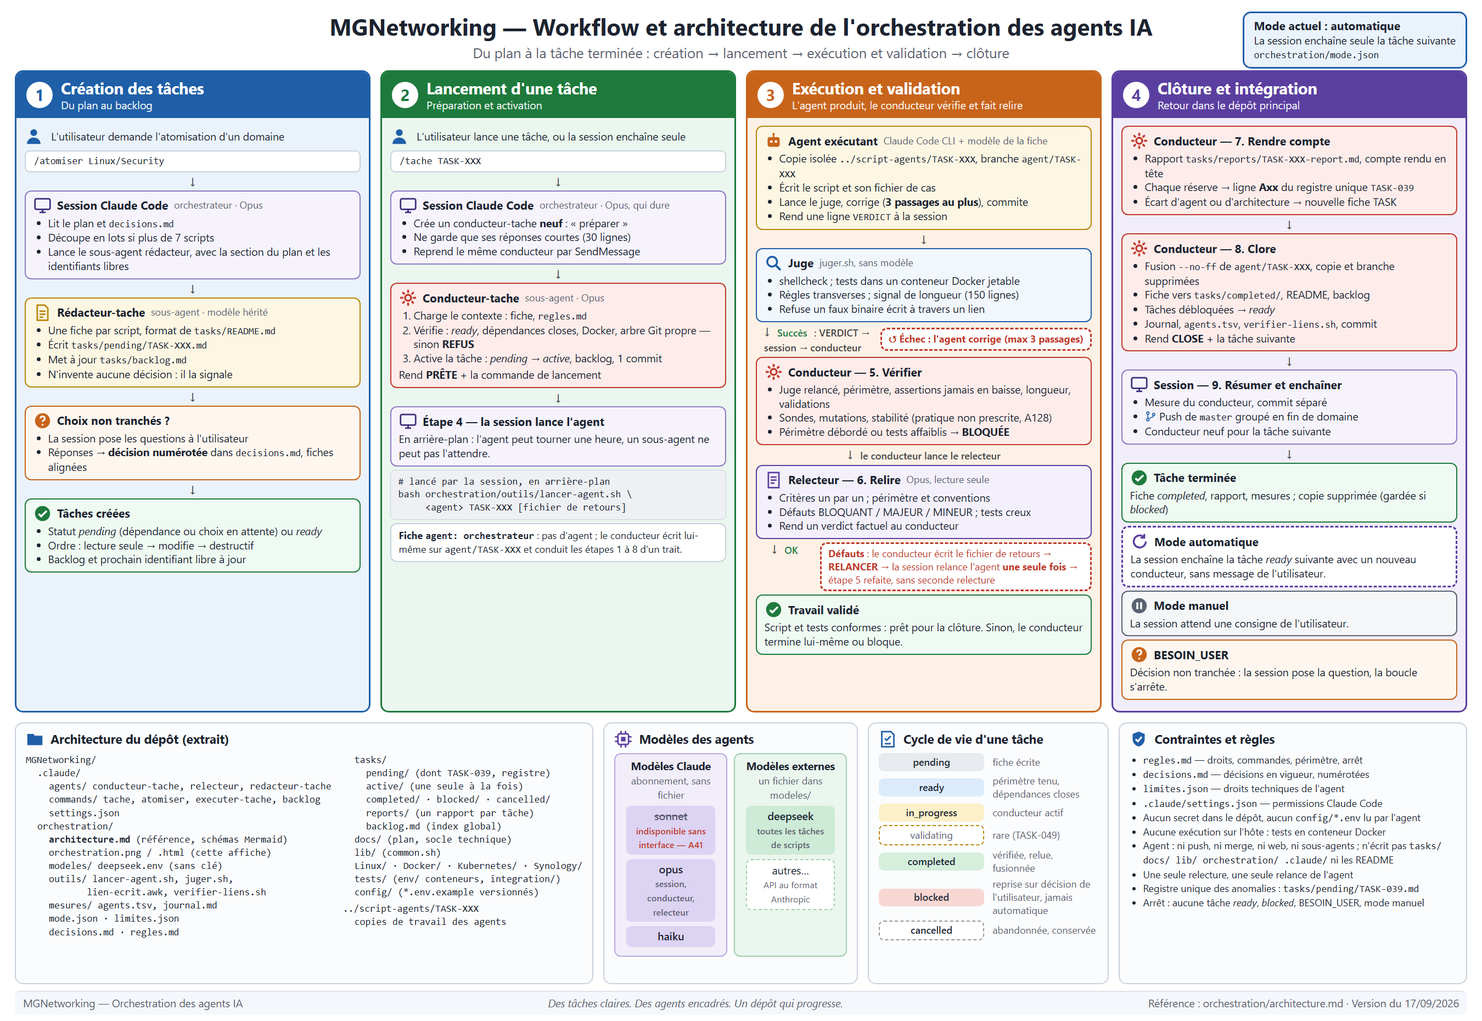
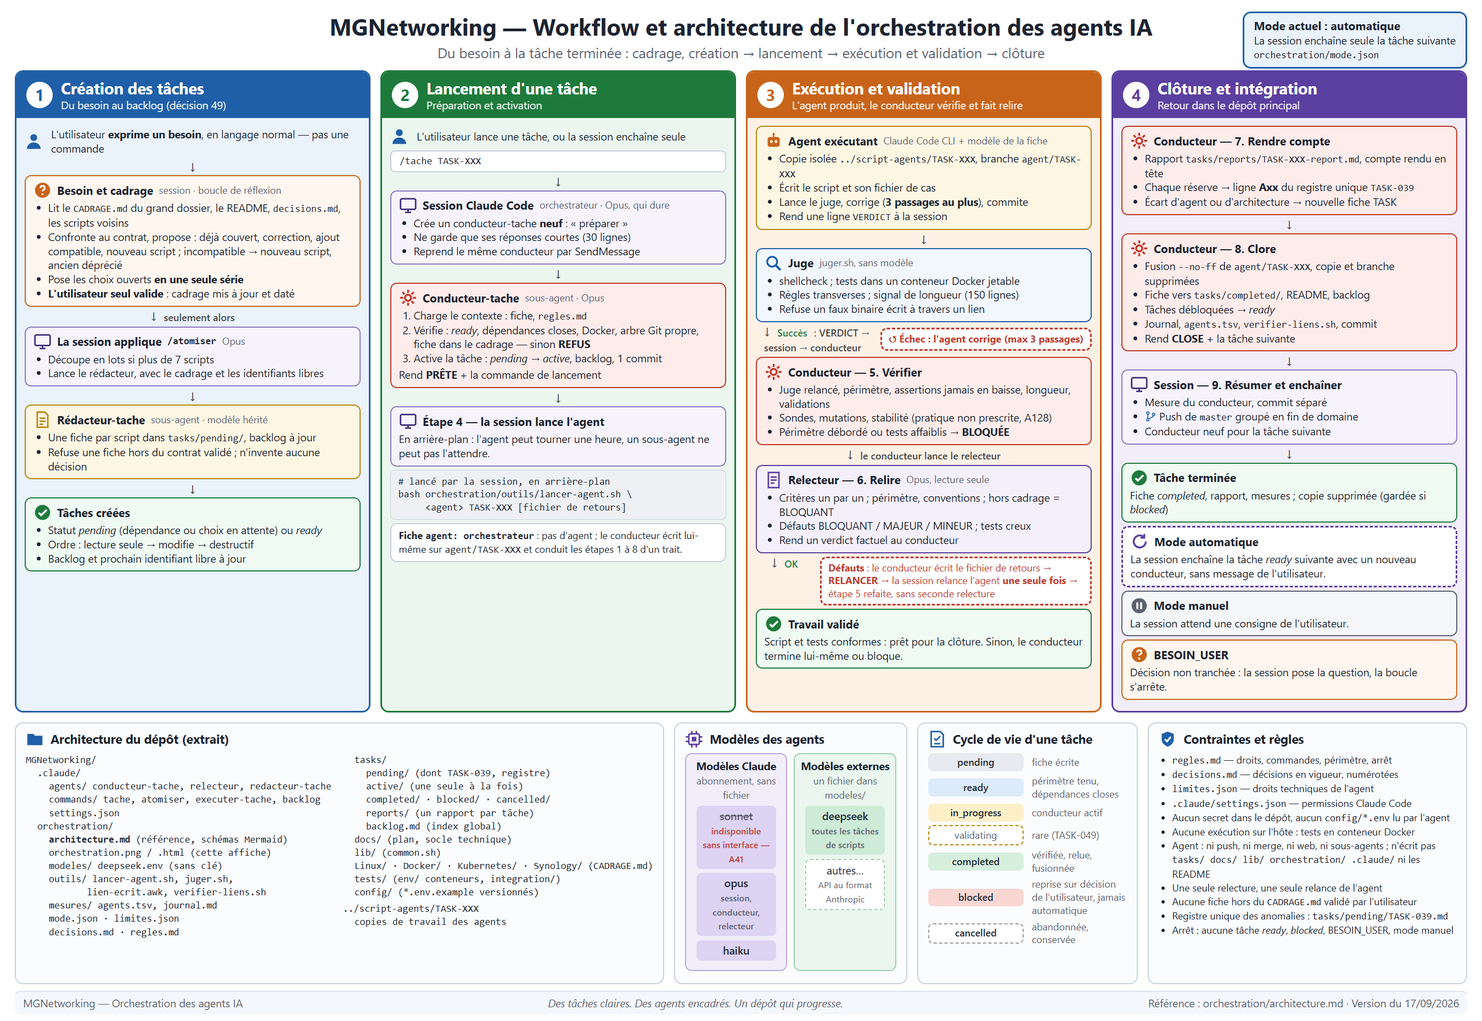
docs(orchestration): décision 49, cadrage par grand dossier et boucle de réflexion
Décision 49 consignée ; architecture.md, affiche, regles.md, /tache, /atomiser,
relecteur et rédacteur renvoient au CADRAGE.md du dossier. docs/reprise-cadrage.md
supprimé.

Tâche : TASK-073

diff --git a/orchestration/orchestration.html b/orchestration/orchestration.html
@@ -2,7 +2,7 @@
 <!-- Source de l'affiche orchestration.png. Export :
      "/c/Program Files (x86)/Microsoft/Edge/Application/msedge.exe" --headless=new --hide-scrollbars \
        --force-device-scale-factor=1.5 --window-size=1800,1240 \
-       --screenshot="$PWD/orchestration/orchestration.png" "file:///$PWD/orchestration/orchestration.html"
+       --screenshot="$(pwd -W)/orchestration/orchestration.png" "file:///$(pwd -W)/orchestration/orchestration.html"
      En cas d'écart, orchestration/architecture.md fait foi. -->
 <html lang="fr">
 <head>
@@ -114,42 +114,40 @@
 
 <div class="entete">
   <h1>MGNetworking — Workflow et architecture de l'orchestration des agents IA</h1>
-  <div class="sous-titre">Du plan à la tâche terminée : création → lancement → exécution et validation → clôture</div>
+  <div class="sous-titre">Du besoin à la tâche terminée : cadrage, création → lancement → exécution et validation → clôture</div>
   <div class="mode"><b>Mode actuel : automatique</b><br>La session enchaîne seule la tâche suivante<br><span class="mono">orchestration/mode.json</span></div>
 </div>
 
 <div class="colonnes">
   <!-- 1 -->
   <section class="col c1">
-    <div class="titre"><span class="num">1</span><div><h2>Création des tâches</h2><small>Du plan au backlog</small></div></div>
+    <div class="titre"><span class="num">1</span><div><h2>Création des tâches</h2><small>Du besoin au backlog (décision 49)</small></div></div>
     <div class="corps">
-      <div class="boite b-user"><svg class="ico"><use href="#i-user"/></svg><span>L'utilisateur demande l'atomisation d'un domaine</span></div>
-      <div class="cmd mono">/atomiser Linux/Security</div>
+      <div class="boite b-user"><svg class="ico"><use href="#i-user"/></svg><span>L'utilisateur <b>exprime un besoin</b>, en langage normal — pas une commande</span></div>
       <div class="fleche">↓</div>
-      <div class="boite b-session">
-        <h3><svg class="ico"><use href="#i-ecran"/></svg>Session Claude Code <span class="role">orchestrateur · Opus</span></h3>
+      <div class="boite besoin">
+        <h3><svg class="ico"><use href="#i-question"/></svg>Besoin et cadrage <span class="role">session · boucle de réflexion</span></h3>
         <ul>
-          <li>Lit le plan et <span class="mono">decisions.md</span></li>
+          <li>Lit le <span class="mono">CADRAGE.md</span> du grand dossier, le README, <span class="mono">decisions.md</span>, les scripts voisins</li>
+          <li>Confronte au contrat, propose : déjà couvert, correction, ajout compatible, nouveau script ; incompatible → nouveau script, ancien déprécié</li>
+          <li>Pose les choix ouverts <b>en une seule série</b></li>
+          <li><b>L'utilisateur seul valide</b> : cadrage mis à jour et daté</li>
+        </ul>
+      </div>
+      <div class="fleche">↓ <small>seulement alors</small></div>
+      <div class="boite b-session">
+        <h3><svg class="ico"><use href="#i-ecran"/></svg>La session applique <span class="mono">/atomiser</span> <span class="role">Opus</span></h3>
+        <ul>
           <li>Découpe en lots si plus de 7 scripts</li>
-          <li>Lance le sous-agent rédacteur, avec la section du plan et les identifiants libres</li>
+          <li>Lance le rédacteur, avec le cadrage et les identifiants libres</li>
         </ul>
       </div>
       <div class="fleche">↓</div>
       <div class="boite b-agent">
         <h3><svg class="ico"><use href="#i-doc"/></svg>Rédacteur-tache <span class="role">sous-agent · modèle hérité</span></h3>
         <ul>
-          <li>Une fiche par script, format de <span class="mono">tasks/README.md</span></li>
-          <li>Écrit <span class="mono">tasks/pending/TASK-XXX.md</span></li>
-          <li>Met à jour <span class="mono">tasks/backlog.md</span></li>
-          <li>N'invente aucune décision : il la signale</li>
-        </ul>
-      </div>
-      <div class="fleche">↓</div>
-      <div class="boite besoin">
-        <h3><svg class="ico"><use href="#i-question"/></svg>Choix non tranchés ?</h3>
-        <ul>
-          <li>La session pose les questions à l'utilisateur</li>
-          <li>Réponses → <b>décision numérotée</b> dans <span class="mono">decisions.md</span>, fiches alignées</li>
+          <li>Une fiche par script dans <span class="mono">tasks/pending/</span>, backlog à jour</li>
+          <li>Refuse une fiche hors du contrat validé ; n'invente aucune décision</li>
         </ul>
       </div>
       <div class="fleche">↓</div>
@@ -184,7 +182,7 @@
         <h3><svg class="ico"><use href="#i-roue"/></svg>Conducteur-tache <span class="role">sous-agent · Opus</span></h3>
         <ol>
           <li>Charge le contexte : fiche, <span class="mono">regles.md</span></li>
-          <li>Vérifie : <i>ready</i>, dépendances closes, Docker, arbre Git propre — sinon <b>REFUS</b></li>
+          <li>Vérifie : <i>ready</i>, dépendances closes, Docker, arbre Git propre, fiche dans le cadrage — sinon <b>REFUS</b></li>
           <li>Active la tâche : <i>pending → active</i>, backlog, 1 commit</li>
         </ol>
         <div style="margin-top:3px">Rend <b>PRÊTE</b> + la commande de lancement</div>
@@ -241,7 +239,7 @@ bash orchestration/outils/lancer-agent.sh \
       <div class="boite b-relec">
         <h3><svg class="ico"><use href="#i-relec"/></svg>Relecteur — 6. Relire <span class="role">Opus, lecture seule</span></h3>
         <ul>
-          <li>Critères un par un ; périmètre et conventions</li>
+          <li>Critères un par un ; périmètre, conventions ; hors cadrage = BLOQUANT</li>
           <li>Défauts BLOQUANT / MAJEUR / MINEUR ; tests creux</li>
           <li>Rend un verdict factuel au conducteur</li>
         </ul>
@@ -330,7 +328,7 @@ bash orchestration/outils/lancer-agent.sh \
         <div class="i2">backlog.md (index global)</div>
         <div class="i1">docs/ (plan, socle technique)</div>
         <div class="i1">lib/ (common.sh)</div>
-        <div class="i1">Linux/ · Docker/ · Kubernetes/ · Synology/</div>
+        <div class="i1">Linux/ · Docker/ · Kubernetes/ · Synology/ (CADRAGE.md)</div>
         <div class="i1">tests/ (env/ conteneurs, integration/)</div>
         <div class="i1">config/ (*.env.example versionnés)</div>
         <div style="margin-top:4px">../script-agents/TASK-XXX</div>
@@ -380,6 +378,7 @@ bash orchestration/outils/lancer-agent.sh \
       <li>Aucune exécution sur l'hôte : tests en conteneur Docker</li>
       <li>Agent : ni push, ni merge, ni web, ni sous-agents ; n'écrit pas <span class="mono">tasks/ docs/ lib/ orchestration/ .claude/</span> ni les README</li>
       <li>Une seule relecture, une seule relance de l'agent</li>
+      <li>Aucune fiche hors du <span class="mono">CADRAGE.md</span> validé par l'utilisateur</li>
       <li>Registre unique des anomalies : <span class="mono">tasks/pending/TASK-039.md</span></li>
       <li>Arrêt : aucune tâche <i>ready</i>, <i>blocked</i>, BESOIN_USER, mode manuel</li>
     </ul>

diff --git a/orchestration/architecture.md b/orchestration/architecture.md
@@ -29,8 +29,8 @@ fichier est à corriger.
 
 | Acteur | Nature | Modèle | Consigne | Peut | Ne peut pas |
 |---|---|---|---|---|---|
-| **user** | humain | — | — | décider, reconnecter Claude Code, basculer `mode.json` | — |
-| **Session orchestratrice** | session Claude Code interactive, qui dure | Opus | `/tache` étapes 0 et 9 ; `/atomiser` (commande, qui délègue au rédacteur) | lancer conducteurs, rédacteurs et `lancer-agent.sh` en arrière-plan ; écrire décisions, `mode.json`, ce fichier ; commiter la mesure du conducteur ; pousser en fin de domaine | écrire un script ; vider son contexte (décision 46 amendée) |
+| **user** | humain | — | — | exprimer un besoin (jamais une commande), valider seul le cadrage, décider, reconnecter Claude Code, basculer `mode.json` | — |
+| **Session orchestratrice** | session Claude Code interactive, qui dure | Opus | boucle de réflexion ([décision 49](decisions.md)) ; `/tache` étapes 0 et 9 ; `/atomiser`, appliqué après validation du cadrage, qui délègue au rédacteur | proposer un cadrage ; lancer conducteurs, rédacteurs et `lancer-agent.sh` en arrière-plan ; écrire décisions, `mode.json`, ce fichier ; commiter la mesure du conducteur ; pousser en fin de domaine | écrire un script ; vider son contexte (décision 46 amendée) |
 | **Conducteur** | sous-agent Claude Code, neuf par tâche | Opus | [conducteur-tache.md](../.claude/agents/conducteur-tache.md), `/tache` étapes 1 à 8 | activer, vérifier, faire relire, écrire le fichier de retours, fusionner, clore ; terminer lui-même ou bloquer ; écrire lui-même une tâche `agent: orchestrateur` | lancer `lancer-agent.sh` ; pousser, rebaser, `reset --hard` ; appeler Python (absent de l'hôte, A87) |
 | **Agent exécutant** | Claude Code sans interface (`claude -p`) | celui de la fiche : `deepseek` (modèle externe, [modeles/](modeles/)) ou `sonnet`/`opus`/`haiku` | [executer-tache.md](../.claude/commands/executer-tache.md) | écrire le script, son fichier de cas et un éventuel `config/*.env.example` ; lancer `juger.sh` ; `git add`/`commit` dans sa copie | tout ce que refuse [limites.json](limites.json) : `CLAUDE.md`, README, `tasks/`, `docs/`, `lib/`, `orchestration/`, `.claude/` ; `push`, `merge`, `rebase`, `reset`, `checkout`, `switch`, `worktree` ; web, sous-agents, MCP (décision 39) ; lecture des `config/*.env` |
 | **Relecteur** | sous-agent, lecture seule | Opus | [relecteur.md](../.claude/agents/relecteur.md) | lire, rendre un verdict de 40 lignes au plus | écrire, lancer une commande |
@@ -59,7 +59,8 @@ NAS ([regles.md](regles.md) §7).
 
 | Artefact | Rôle | Écrit par | Lu par |
 |---|---|---|---|
-| `docs/refactorisation-plan.md` | scripts à produire, par domaine | user, session | rédacteur |
+| `<dossier>/CADRAGE.md` | besoin, ensembles et contrat de chaque script d'un grand dossier ; il engage (décision 49) | session, validé par user seul | session, rédacteur, conducteur, relecteur |
+| `docs/refactorisation-plan.md` | scripts du chantier initial, par domaine | user, session | rédacteur |
 | `tasks/pending/`, `active/`, `completed/`, `blocked/`, `cancelled/` | une fiche par tâche ; le répertoire suit le statut | rédacteur, conducteur | tous |
 | `tasks/backlog.md` | tableau des tâches, index du plan, identifiant libre | rédacteur, session, conducteur | session, conducteur |
 | `tasks/pending/TASK-039.md` | **registre unique** des anomalies `Axx` | conducteur, session | tous |
@@ -97,9 +98,10 @@ flowchart TB
     end
     G[("GitHub origin")]
 
-    U -- "consigne, décisions" --> S
-    S -- "question fermée" --> U
-    S -- "atomiser un lot" --> R
+    U -- "besoin, validation du cadrage,<br/>décisions" --> S
+    S -- "cadrage proposé, questions<br/>en une série, question fermée" --> U
+    S -- "cadrage validé" --> CA["CADRAGE.md<br/>par grand dossier"]
+    S -- "/atomiser après<br/>validation" --> R
     R -- "fiches, backlog" --> F
     S -- "préparer, reprendre<br/>SendMessage" --> C
     C -- "PRÊTE, REFUS, RELANCER,<br/>CLOSE, BLOQUÉE, BESOIN_USER" --> S
@@ -210,14 +212,27 @@ passe en `ready` les tâches qu'elle débloque. Le statut `validating`
 ([tasks/README.md](../tasks/README.md) §3) n'a servi qu'à une tâche d'orchestration qui se
 prouvait à l'usage (TASK-049).
 
-## 7. Du plan au push
+## 7. Du besoin au push
+
+Aucune fiche ne naît hors de la boucle de réflexion de la [décision 49](decisions.md) :
+user exprime un besoin en langage normal, la session lit le `CADRAGE.md` du dossier et
+propose, user seul valide. Le plan initial n'alimente plus que le chantier en cours.
 
 ```mermaid
 flowchart TD
-    P["Plan : un domaine,<br/>docs/refactorisation-plan.md"] --> Q{"plus de 7 scripts ?"}
+    B(["user exprime un besoin"]) --> Lec["Lecture : CADRAGE.md, README,<br/>décisions, scripts voisins"]
+    Lec --> Conf["Confrontation au contrat"]
+    Conf --> Prop{"Proposition"}
+    Prop -- "déjà couvert" --> Rien(["Rien à faire, montré à user"])
+    Prop -- "correction, ajout compatible,<br/>nouveau script, incompatible<br/>= nouveau + ancien déprécié" --> Qs["Questions en une seule série"]
+    Qs --> Val{"user valide ?"}
+    Val -- "non" --> Prop
+    Val -- "oui" --> Cad["CADRAGE.md mis à jour et daté"]
+    Cad --> P
+    P["Domaine à atomiser<br/>(ou plan initial)"] --> Q{"plus de 7 scripts ?"}
     Q -- "oui" --> Lots["Découper en lots"]
     Q -- "non" --> At
-    Lots --> At["/atomiser : rédacteurs,<br/>une fiche par script"]
+    Lots --> At["/atomiser appliqué par la session :<br/>rédacteurs, une fiche par script"]
     At --> Dec{"choix non tranchés<br/>par decisions.md ?"}
     Dec -- "oui" --> Qu["Questions à user"]
     Qu --> DN["Décision numérotée<br/>+ fiches alignées"]

diff --git a/orchestration/decisions.md b/orchestration/decisions.md
@@ -288,3 +288,98 @@ de `Kubernetes/` (TASK-055 à TASK-071).
   Git, modèle `.example` versionné, droits 0600 exigés) ; Secret docker-registry dans
   chaque namespace de `SRV_K8S_NAMESPACES` ; jamais affichés, journalisés ni passés
   en argument.
+
+---
+
+## F. Cadrage des scripts
+
+### Décision 49 — Un cadrage par grand dossier, une boucle de réflexion avant toute tâche (2026-09-17)
+
+Validé par `user` le 2026-09-17. **Pourquoi** : un script peut déjà tourner sur
+plusieurs serveurs, dans des crons ou d'autres processus, et il se déploie par
+`git clone` : un changement sur `master` atteint tous les serveurs au prochain
+`git pull`. Rien ne disait non plus comment naît une tâche (plan initial, demande dans
+la conversation, défaut découvert). L'évolution des scripts est donc cadrée et assumée.
+
+**Cinq choix de `user`** :
+
+1. **Un `CADRAGE.md` par grand dossier** : `Linux/`, `Docker/`, `Kubernetes/`,
+   `Synology/`. Deux sortes de scripts : ceux d'un **ensemble** (fonction globale, ex.
+   la gestion de Kubernetes) et les **scripts individuels** (autonomes, ex. Synology).
+2. **Aucune information serveur dans le dépôt**, qui est public. **Tout ce qui figure au
+   contrat est réputé utilisé** ; le modifier est une rupture. Aucun inventaire des usages.
+3. **Rupture de contrat** : correction et **ajout compatible** (option désactivée par
+   défaut) autorisés après validation. **Changement incompatible : jamais sur le script
+   existant** ; nouveau script, l'ancien marqué « déprécié » avec une date, supprimé
+   seulement par décision de `user` après migration.
+4. **Scripts déjà écrits** : l'état actuel est la base de départ. Ils appartiennent tous
+   à un ensemble, sauf les scripts individuels ; leur comportement actuel devient leur
+   contrat initial.
+5. **Autorité** : **seul `user` valide** une modification du cadrage. L'IA propose.
+
+Écartés : inventaire privé des usages ; versions Git épinglées par serveur ; option qui
+garde l'ancien comportement à vie.
+
+**Modèle de `CADRAGE.md`** :
+
+```markdown
+# Cadrage — Kubernetes/
+
+## Besoin
+Pourquoi ce dossier existe : le problème réglé, pour qui, dans quel contexte
+(VPS mono-nœud K3s…). Ce qui est hors besoin.
+
+## Ensembles
+### Gestion de Kubernetes
+- Fonction globale : ce que l'ensemble garantit une fois ses scripts appliqués.
+- Scripts membres et ordre : install-* → configure-* ; Maintenance/ à tout moment.
+- Conventions communes : accès au cluster (décision 48), codes de retour,
+  variables SRV_K8S_* de config/server.env.
+
+## Scripts individuels
+(aucun dans Kubernetes/ ; dans Synology/, un bloc par script autonome)
+
+## Contrats
+### configure-namespaces.sh — ensemble « Gestion de Kubernetes »
+- Besoin : créer les namespaces déclarés.
+- Fait : … Ne fait pas : …
+- Options et défauts : --dry-run, --yes, --config…
+- Codes de retour : 0 … 1 … 2 …
+- Modifie sur la machine ou le cluster : …
+- Lit : SRV_K8S_NAMESPACES
+- État : actif | déprécié le AAAA-MM-JJ, remplacé par …
+
+## Historique du cadrage
+| Date | Changement | Nature (correction, ajout compatible, nouveau script, dépréciation) | Validé par user |
+```
+
+Le **README** du dossier **explique** (usage, exemples, risques) ; le **cadrage**
+**engage** (besoin, contrat, décisions du dossier) ; `decisions.md` garde les décisions
+transverses. `docs/refactorisation-plan.md` reste la trace du chantier initial.
+
+**Boucle de réflexion, avant toute tâche** :
+
+```text
+1. Besoin          user l'exprime dans la conversation, en langage normal
+2. Lecture         l'IA lit le CADRAGE.md du dossier, le README, les décisions,
+                   les scripts voisins (plans fonctionnel et technique)
+3. Confrontation   déjà couvert ? dans quel ensemble ? touche-t-il un contrat ?
+4. Proposition     une issue et ses conséquences :
+                   a. déjà couvert → rien à faire, montrer comment
+                   b. correction (rétablit le contrat)
+                   c. ajout compatible (option désactivée par défaut)
+                   d. nouveau script (dans un ensemble, ou individuel)
+                   e. changement incompatible → nouveau script + ancien déprécié
+5. Questions       les choix ouverts, posés en une seule série
+6. Validation      user seul ; le cadrage est mis à jour et daté
+7. Tâches          seulement alors, fiches écrites (/atomiser) et mises au backlog
+```
+
+Aucune fiche avant l'étape 6. Aucune tâche hors du cadrage validé : le rédacteur refuse
+de l'écrire, le conducteur la refuse à l'étape 2 de `/tache`, le relecteur classe
+BLOQUANT un travail qui sort du contrat.
+
+**Transition** : un dossier dont le `CADRAGE.md` n'est pas encore écrit n'empêche pas
+une tâche de correction déjà au backlog ; le contrat de référence est alors le
+comportement actuel du script (choix 4). Toute nouvelle demande sur ce dossier attend
+son cadrage.

diff --git a/orchestration/regles.md b/orchestration/regles.md
@@ -22,6 +22,12 @@ Exécuter des tâches définies, dans le périmètre qu'elles fixent. Jamais : d
 seul d'une architecture, élargir un périmètre, administrer une machine réelle,
 publier quoi que ce soit.
 
+**Cadrage** ([décision 49](decisions.md)) : avant d'écrire une fiche ou de toucher un
+script, lire le `CADRAGE.md` de son grand dossier (`Linux/`, `Docker/`, `Kubernetes/`,
+`Synology/`). Aucune fiche ne naît hors de la boucle de réflexion validée par Maxime, ni
+hors du contrat que le cadrage engage ; un changement incompatible ne touche jamais le
+script existant.
+
 ## 3. Hiérarchie des règles
 
 1. une instruction explicite de Maxime dans la conversation ;
@@ -139,7 +145,7 @@ bloque, la décision attendue, les conséquences de chaque option.
 
 ## 14. Information manquante
 
-Chercher dans le dépôt : fiche, `CLAUDE.md`, `architecture-technique.md`, plan,
+Chercher dans le dépôt : fiche, `CADRAGE.md` du dossier, `CLAUDE.md`, `architecture-technique.md`, plan,
 historique Git, scripts comparables. Choix **réversible et local** : prendre le
 plus simple et l'écrire dans le rapport. Choix **structurant** : §13. Ne jamais
 inventer une valeur, une option ou un comportement système non vérifié.

diff --git a/.claude/commands/atomiser.md b/.claude/commands/atomiser.md
@@ -10,7 +10,12 @@ fichiers de tâche exécutables.
 
 ## 1. Cadrer le lot
 
-- lis `docs/refactorisation-plan.md` pour la section visée ;
+**Préalable** (décision 49) : cette commande est l'étape 7 de la boucle de réflexion.
+`user` exprime un besoin, jamais cette commande ; la session ne l'applique qu'une fois
+le `CADRAGE.md` du grand dossier mis à jour et validé par `user`. Sans cela, arrête-toi.
+
+- lis le `CADRAGE.md` du grand dossier : chaque fiche reste dans son contrat ;
+- lis `docs/refactorisation-plan.md` pour la section visée (chantier initial) ;
 - lis `tasks/backlog.md` §2 pour les entrées d'index correspondantes ;
 - lis `orchestration/decisions.md` : il a
   tranché les cibles, la politique de sécurité, les codes de retour et la
@@ -49,6 +54,7 @@ Pour chaque tâche produite, contrôle toi-même :
   porte `tests/run.sh lint` si la tâche touche un `.sh` ;
 - `acceptance_criteria` énonce des faits observables, pas des intentions ;
 - `depends_on` ne cite que des identifiants réels ;
+- la fiche ne sort pas du contrat du `CADRAGE.md` validé ;
 - `environment` est `container-systemd` dès qu'il est question de `systemctl`,
   `timedatectl` ou `hostnamectl`.
 

diff --git a/.claude/agents/redacteur-tache.md b/.claude/agents/redacteur-tache.md
@@ -23,7 +23,10 @@ critère.
    K3s, codes de retour, notification des échecs ;
 4. lis deux tâches déjà terminées — `tasks/completed/TASK-009.md` est le meilleur
    modèle d'une tâche produisant un script ;
-5. lis un script existant du même domaine, pour savoir ce qui existe déjà.
+5. lis un script existant du même domaine, pour savoir ce qui existe déjà ;
+6. lis le `CADRAGE.md` du grand dossier (décision 49) : **refuse** d'écrire une fiche
+   hors du contrat validé par `user`, ou que la boucle de réflexion n'a pas validée.
+   Dis-le dans ce que tu rends.
 
 ## Ce que tu produis
 
@@ -82,6 +85,8 @@ découle.
 - inventer un comportement système que tu n'as pas vérifié dans le dépôt ou dans
   le plan. **Dis que tu doutes** plutôt que d'écrire un critère faux ;
 - reposer une question tranchée par decisions.md ;
+- écrire une fiche hors du contrat du `CADRAGE.md`, ou un changement incompatible sur
+  un script existant (décision 49 : nouveau script, l'ancien déprécié) ;
 - écrire un `out_of_scope` vide, ou des critères d'acceptation qui paraphrasent
   l'objectif ;
 - produire plus de tâches que le lot demandé : le backlog s'atomise par

diff --git a/.claude/commands/tache.md b/.claude/commands/tache.md
@@ -40,7 +40,11 @@ Refuse et explique pourquoi si :
 - l'environnement réclamé est indisponible — pour `container-debian`, le démon
   Docker doit répondre. Ne remplace jamais une validation comportementale par
   une analyse statique ;
-- l'arbre Git de `master` n'est pas propre. Ne remise rien : signale.
+- l'arbre Git de `master` n'est pas propre. Ne remise rien : signale ;
+- elle sort du contrat du `CADRAGE.md` de son grand dossier (décision 49) : un
+  changement incompatible sur un script existant, ou une fiche née hors de la boucle
+  de réflexion validée par `user`. Dossier encore sans cadrage : seule une correction
+  déjà au backlog passe.
 
 **Le champ `agent`** désigne un modèle externe de `orchestration/modeles/` (`deepseek`), un modèle
 Claude (`sonnet`, `opus`, `haiku`) ou `orchestrateur`. Fiche sans ce champ : choisis, écris-le dans la

diff --git a/.claude/agents/relecteur.md b/.claude/agents/relecteur.md
@@ -23,6 +23,9 @@ l'essai comparatif de TASK-034 (`orchestration/mesures/journal.md`).
 1. **Les critères d'acceptation**, un par un : TENU, NON TENU ou PARTIEL, avec la
    ligne du code ou du test qui le prouve.
 2. **Le périmètre** : aucun fichier hors `scope`, rien de `out_of_scope` abordé.
+   **Le cadrage** : lis le `CADRAGE.md` du grand dossier (décision 49). Une fiche ou un
+   travail qui sort du contrat validé — option, défaut, code de retour ou effet changé
+   de façon incompatible sur un script existant — est **BLOQUANT**.
 3. **Les conventions** : en-tête en trois lignes, `set -Eeuo pipefail` en première commande,
    `lib/common.sh` sans redéfinition, `verb-noun.sh`, préfixes de messages,
    `--dry-run` sur le destructif, `--help`, idempotence, français accentué,

diff --git a/docs/refactorisation-plan.md b/docs/refactorisation-plan.md
@@ -5,6 +5,9 @@
 > critères et ses preuves, vit désormais dans [tasks/backlog.md](../tasks/backlog.md).
 >
 > Les deux se complètent : le plan explique, le backlog engage.
+>
+> Il reste la trace du chantier initial : pour les évolutions, le `CADRAGE.md` de
+> chaque grand dossier prend le relais ([décision 49](../orchestration/decisions.md)).
 
 ## Objectif
 
